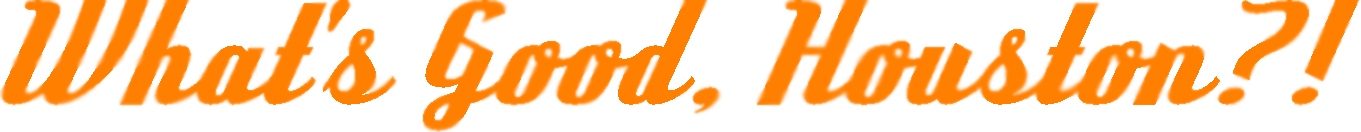
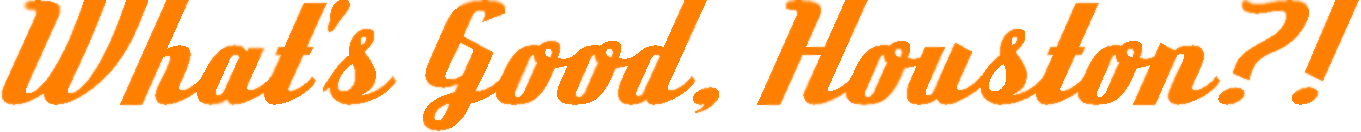
added google analytics

diff --git a/index.html b/index.html
@@ -4,6 +4,7 @@
 <head>
     <title>What's Good Houston!?</title>
     <!-- Facebook Pixel Code -->
+    <!-- Facebook Pixel Code -->
     <script>
     ! function(f, b, e, v, n, t, s) {
         if (f.fbq) return;
@@ -21,12 +22,30 @@
         t.src = v;
         s = b.getElementsByTagName(e)[0];
         s.parentNode.insertBefore(t, s)
-    }(window,
-        document, 'script', 'https://connect.facebook.net/en_US/fbevents.js');
-    fbq('init', '640988696082724', {
-        em: 'insert_email_variable,'
-    });
+    }(window, document, 'script',
+        'https://connect.facebook.net/en_US/fbevents.js');
+    fbq('init', '640988696082724');
     fbq('track', 'PageView');
+    fbq('track', 'ViewContent');
+    </script>
+    <!-- End Facebook Pixel Code -->
+    </script>
+    <!-- Google analytics -->
+    <script>
+    (function(i, s, o, g, r, a, m) {
+        i['GoogleAnalyticsObject'] = r;
+        i[r] = i[r] || function() {
+            (i[r].q = i[r].q || []).push(arguments)
+        }, i[r].l = 1 * new Date();
+        a = s.createElement(o),
+            m = s.getElementsByTagName(o)[0];
+        a.async = 1;
+        a.src = g;
+        m.parentNode.insertBefore(a, m)
+    })(window, document, 'script', 'https://www.google-analytics.com/analytics.js', 'ga');
+
+    ga('create', 'UA-90787316-1', 'auto');
+    ga('send', 'pageview');
     </script>
     <noscript><img height="1" width="1" style="display:none" src="https://www.facebook.com/tr?id=640988696082724&ev=PageView&noscript=1" /></noscript>
     <!-- DO NOT MODIFY -->
@@ -56,7 +75,7 @@
             <!-- Contains the banner image -->
             <div class="navbar-center">
                 <a class="navbar-banner" href="index.html">
-                    <img atl="Banner" class="wghBanner" src="assets/images/wghbanner2.png">
+                    <img atl="Banner" class="wghBanner" src="assets/images/wghbanner3.png">
                 </a>
                 <!-- This conains the social media logos -->
                 <div class="nav navbar-nav navbar-right" id="navbarParent">
@@ -107,8 +126,8 @@
                         <br>
                         <br> If you like what you hear please don't forget to subscribe, and remember...
                         <h3>
-							Eat, Drink, and Listen Local
-						</h3>
+                            Eat, Drink, and Listen Local
+                        </h3>
                     </p>
                 </div>
             </div>
